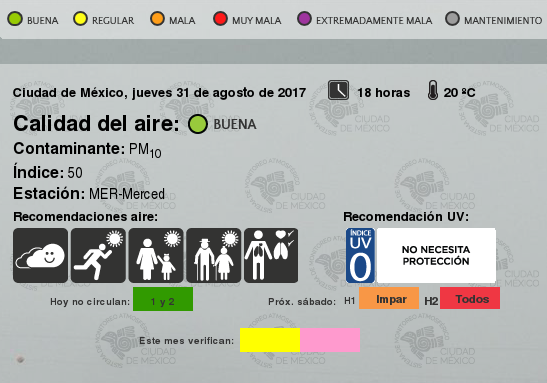
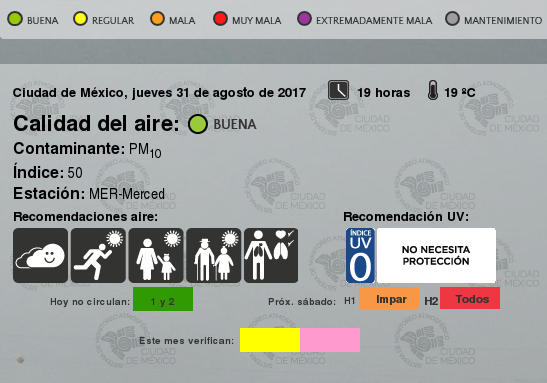
update images 31-08-2017 19:20

diff --git a/README.md b/README.md
@@ -14317,3 +14317,4 @@
 |31-08-2017 18:50
 |31-08-2017 19:03
 |31-08-2017 19:11
+|31-08-2017 19:20
